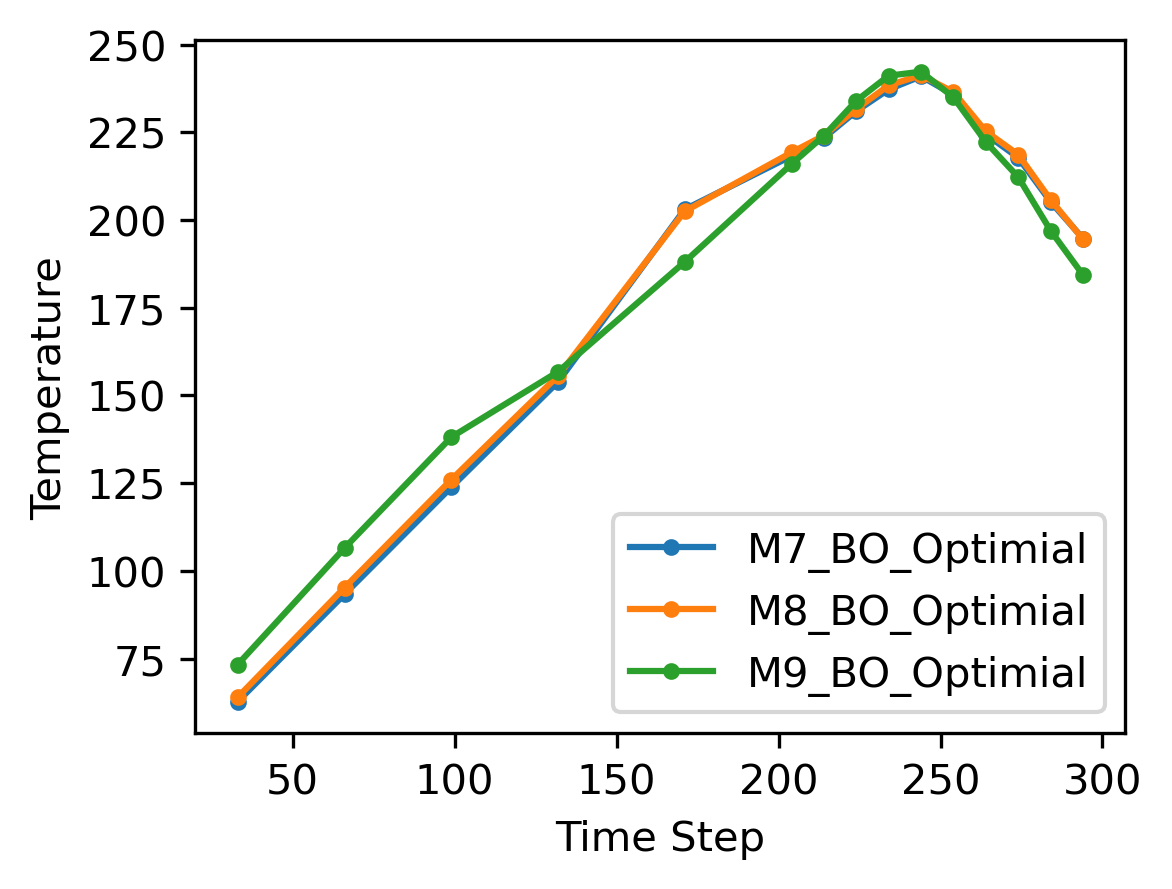
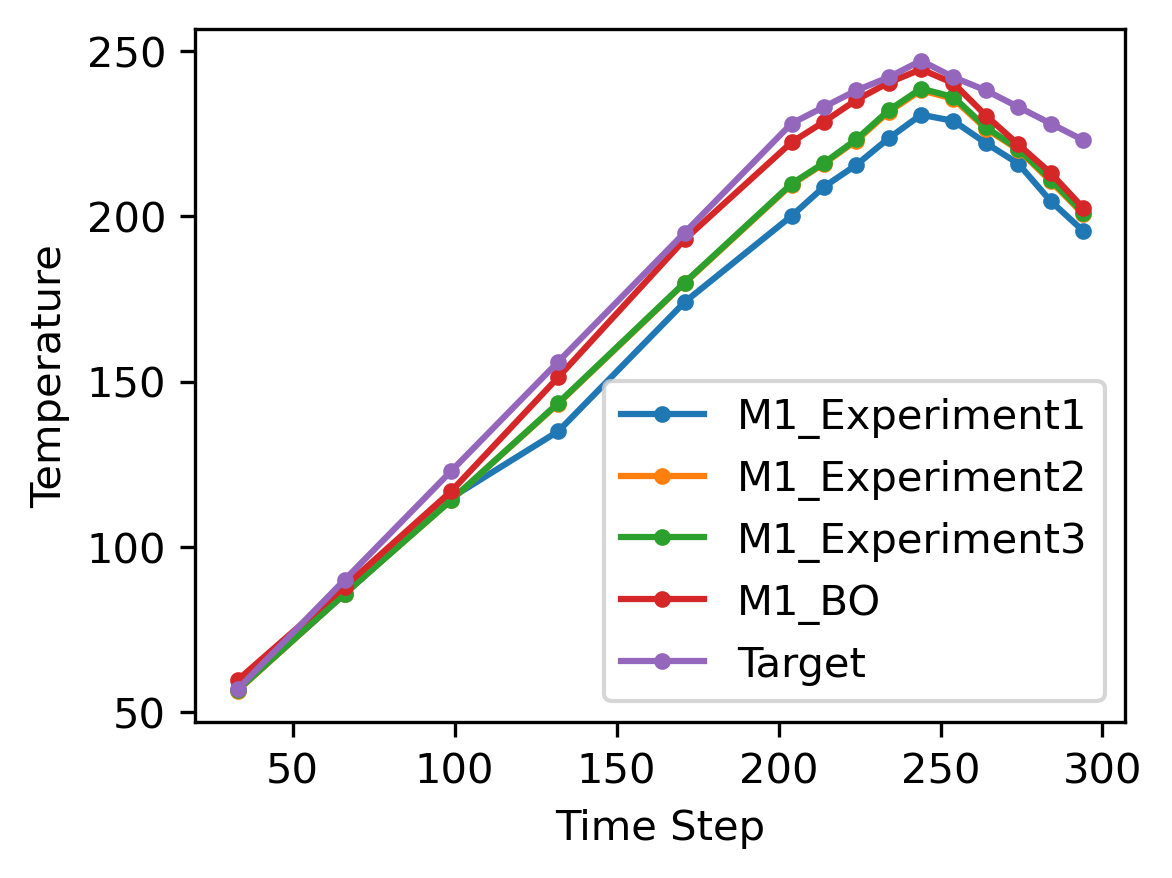
started chaging model to directly predict recieps

diff --git a/main.py b/main.py
@@ -23,6 +23,7 @@ from bayes_opt import BayesianOptimization
 from bayes_opt import UtilityFunction
 from bayes_opt.logger import JSONLogger
 from bayes_opt.event import Events
+import pandas  as pd
 
 parser = argparse.ArgumentParser()
 parser.add_argument('--lr', default=1e-2, type=float, help='learning rate')
@@ -100,21 +101,6 @@ class OvenLightningModule(pl.LightningModule):
         print('Model Created!')
 
 
-    def create_video(self, x, y_hat, y):
-
-        b, t, c, h, w = x.shape
-        x_t = x.cpu()
-        x_t = x_t[1, 1, :, :, :]
-        x_grid = torchvision.utils.make_grid(x_t, nrow=t)
-
-        b, t, c, h, w = y.shape
-        y_t = y[1, :, :, :, :]
-        y_hat_t = y_hat[1, :, :, :, :]
-        y_grid = torchvision.utils.make_grid(y_t.cpu(), nrow=t)
-        y_hat_grid = torchvision.utils.make_grid(y_hat_t.cpu(), nrow=t)
-
-        return x_grid, y_grid, y_hat_grid
-
     def forward(self, x, model):
 
         output, f1, f2, f3, f4 = model(x, future_step=self.time_steps)
@@ -182,64 +168,10 @@ class OvenLightningModule(pl.LightningModule):
         self.log("avg_diff_tar_tar", avg_diff_tar_tar.item(), on_step=False, on_epoch=True)
 
 
-        # loss = src_loss + tar_loss + mmd_loss1 + mmd_loss2 + mmd_loss3 + mmd_loss4 + reg_loss
-        loss = src_loss
-
-        if self.log_images:
-            x_grid, y_grid, y_hat_grid = self.create_video(src_x, src_y_hat, src_y)
-            fname = 'epoch_' + str(self.current_epoch+1) + '_step' + str(self.global_step)
-
-            figure, ax = plt.subplots(1, 1, figsize=(18, 3))
-            ax.imshow(y_hat_grid.permute(1,2,0))
-            figure.suptitle("pred_"+fname, fontsize=16)
-            self.logger.experiment.log_image("pred", figure)
-            plt.clf()
-            plt.cla()
-
-            figure, ax = plt.subplots(1, 1, figsize=(18, 3))
-            ax.imshow(y_grid.permute(1,2,0))
-            figure.suptitle("target_"+fname, fontsize=16)
-            self.logger.experiment.log_image("target", figure)
-            plt.clf()
-            plt.cla()
-
-            figure, ax = plt.subplots(1, 1, figsize=(18, 3))
-            ax.imshow(x_grid.permute(1,2,0))
-            figure.suptitle("input_"+fname, fontsize=16)
-            self.logger.experiment.log_image("input", figure)
-            plt.clf()
-            plt.cla()
-
+        loss = src_loss + tar_loss + mmd_loss1 + mmd_loss2 + mmd_loss3 + mmd_loss4 + reg_loss
+        # loss = src_loss
 
         return loss
-
-    # def validation_step(self, batch, batch_idx, dataloader_idx):
-
-        # src_batch = batch[0]
-        # tar_batch = batch[1]
-        # src_x, src_y = src_batch
-        # tar_x, tar_y = tar_batch
-
-        # src_y_hat, src_dcl_y_hat = self.forward(src_x)
-        # tar_y_hat, tar_dcl_y_hat = self.forward(tar_x)
-
-        # src_label = torch.zeros(src_x.shape[0]).cuda()
-        # tar_label = torch.ones(tar_x.shape[0]).cuda()
-
-        # src_loss = self.criterion(src_y_hat, src_y)
-        # tar_loss = self.criterion(tar_y_hat, tar_y)
-        # src_dcl_loss =self.dcl_criterion(src_dcl_y_hat, src_label)
-        # tar_dcl_loss =self.dcl_criterion(tar_dcl_y_hat, tar_label) 
-        # self.log("val_src_loss", src_loss.item(), on_step=False, on_epoch=True)
-        # self.log("val_tar_loss", tar_loss.item(), on_step=False, on_epoch=True)
-        # self.log("val_src_dcl_loss", src_dcl_loss.item(), on_step=False, on_epoch=True)
-        # self.log("val_tar_dcl_loss", tar_dcl_loss.item(), on_step=False, on_epoch=True)
-
-        # self.log("val_avg_diff_src_tar", avg_diff_src_tar.item(), on_step=False, on_epoch=True)
-        # self.log("val_avg_diff_src_src", avg_diff_src_src.item(), on_step=False, on_epoch=True)
-
-        # self.log("val_avg_diff_tar_tar", avg_diff_tar_tar.item(), on_step=False, on_epoch=True)
-        # self.log("val_avg_diff_tar_src", avg_diff_tar_src.item(), on_step=Falalexnet_resnet_finetune
 
 def test_trainer():
     model =OvenLightningModule(opt).cuda()
@@ -386,132 +318,102 @@ def bayesian_ops():
     # model.load_state_dict(torch.load(opt.model_path, map_location='cuda:0'), strict=False)
     model.eval()
 
-    inp_target = torch.load("dataset/target_input.pt", map_location="cuda:0")
-    inp_target = inp_target[0, :]
-    inp_target.unsqueeze_(0)
-    inp_target = inp_target.type(torch.cuda.FloatTensor)
     src_mean = torch.load("dataset/source_mean.pt", map_location="cuda:0")
     src_sd = torch.load("dataset/source_sd.pt", map_location="cuda:0")
     plt.figure(figsize=(4, 3))
-    for geom_num in range(7, 10):
+    geom_num = 1
 
-        def GetSlope(val1, val2, t1, t2):
-            slope = (val2 - val1) / (t2 - t1)
-            return slope
+    def GetSlope(val1, val2, t1, t2):
+        slope = (val2 - val1) / (t2 - t1)
+        return slope
 
-        def black_box_function(r1, r2, r3, r4, r5, r6, r7):
+    def black_box_function(r1, r2, r3, r4, r5, r6, r7):
 
-            steps = [33, 66, 99, 132, 171, 204, 214, 224,
-                        234, 244, 254, 264, 274, 284, 294]
-            recipes = [r1, r2, r3, r4, r5, r6, r7]
-            inp = create_input(geom_num, recipes)
-            inp = inp.cuda()
-            inp_normalized = (inp - src_mean + 1e-5)/(src_sd+1e-5)
-            inp_normalized = inp_normalized.type(torch.cuda.FloatTensor)
-
-            with torch.no_grad():
-                pred, _, _, _, _ = model(inp_normalized, model.model1)
-
-            # error = -(pred[:,:,:, :12, :12].mean((-1,-2)) - target[:,:,:,:12, :12].mean((-1,-2))).pow(2).sum()
-            temp_dict = {steps[i]:pred[:, i, :, :12, :17].mean() for i in range(len(steps))}
-            tp = 244
-            ts_min = 234
-            ts_max = 254
-            tl_min = 204
-            tl_max = 294
-            tpre_min = 66
-            tpre_max =171
-
-            # Tpre_min = temp_dict[tpre_min]
-            # Tpre_max = temp_dict[tpre_max] # This could 204
-
-            Ts_min = temp_dict[ts_min]
-            Ts_max = temp_dict[ts_max]
-            Tp = temp_dict[tp]
-            Tl = 217
-            Tp_cl = 260
-            Tp_target = 240
-            flag = False
-            loss = 0
-
-            Ts_min_loss = max((Tp - Ts_min - 5, 0))
-            Ts_max_loss = max((Tp - Ts_max - 5, 0))
-            Tp_loss1 = max((Tp - Tp_cl, 0))
-            Tp_loss2 = torch.norm(Tp - Tp_target)
-            # Tpre_min_loss = torch.norm(Tpre_min - 150)
-            # Tpre_max_loss = torch.norm(200 - Tpre_min)
-
-            loss += Ts_min_loss
-            loss += Ts_max_loss
-            loss += Tp_loss1
-            loss += Tp_loss2
-            # loss += Tpre_min_loss
-            # loss += Tpre_max_loss
-
-            for i in range(len(steps)):
-                if temp_dict[steps[i]] > Tl and temp_dict[steps[i]] < Tp and steps[i] < tp  and steps[i] >= tl_min:
-
-                    slope_pos = GetSlope(temp_dict[steps[i]], temp_dict[steps[i+1]], steps[i], steps[i+1])
-                    slope_pos_loss = max((slope_pos-3, 0))
-                    loss += slope_pos_loss
-
-                elif temp_dict[steps[i]] > Tl and temp_dict[steps[i]] < Tp and steps[i] > tp and steps[i] <= tl_max:
-
-                    slope_neg = GetSlope(temp_dict[steps[i]], temp_dict[steps[i+1]], steps[i], steps[i+1])
-                    slope_neg_loss = max((-slope_neg-6, 0))
-                    loss += slope_neg_loss
-
-            loss = np.array(loss.cpu())
-
-            return -loss
-
-        # pbounds = {"r1": (100, 120), "r2": (120, 170), "r3": (170, 190),
-        #            "r4":(190, 210), "r5":(240, 400), "r6": (270, 400), "r7": (290, 400)}
-
-        pbounds = {"r1": (96, 150), "r2": (150, 175), "r3": (175, 200),
-                   "r4":(200, 217), "r5":(217, 260), "r6": (217, 260), "r7": (96, 217)}
-
-        optimizer = BayesianOptimization(f=black_box_function,
-                                         pbounds=pbounds,
-                                         random_state=1)
-    # logger = JSONLogger(path="./bo_logs.json")
-    # optimizer.subscribe(Events.OPTIMIZATION_STEP, logger)
-
-        optimizer.maximize(
-            acq="ei",
-            xi=0.1,
-            init_points=10,
-            n_iter=100
-        )
-        print(optimizer.max)
-        r1, r2, r3, r4, r5, r6, r7 = optimizer.max["params"]["r1"], \
-                                     optimizer.max["params"]["r2"], \
-                                     optimizer.max["params"]["r3"], \
-                                     optimizer.max["params"]["r4"], \
-                                     optimizer.max["params"]["r5"], \
-                                     optimizer.max["params"]["r6"], \
-                                     optimizer.max["params"]["r7"],
-
+        steps = [33, 66, 99, 132, 171, 204, 214, 224,
+                    234, 244, 254, 264, 274, 284, 294]
         recipes = [r1, r2, r3, r4, r5, r6, r7]
-
         inp = create_input(geom_num, recipes)
         inp = inp.cuda()
         inp_normalized = (inp - src_mean + 1e-5)/(src_sd+1e-5)
         inp_normalized = inp_normalized.type(torch.cuda.FloatTensor)
-        target_input = torch.load("dataset/tar_x_train.pt")
-        target_input = target_input.cuda()
-        target_input = target_input.type(torch.cuda.FloatTensor)
-        # target_target = torch.load("dataset/tar_y_train/pt")
+        loss = 0
+
+        target_temp = torch.cuda.FloatTensor( [57, 90, 123, 156, 195, 228, 233, 238, 242, 247, 242, 238, 233, 228, 223]).unsqueeze(1)
+
+        with torch.no_grad():
+            pred, _, _, _, _ = model(inp_normalized, model.model1)
+
+        pred_temp = pred[:,:,:, :12, :17].mean((-1,-2)).squeeze(0)
+        loss += (target_temp - pred_temp).pow(2).sum() / target_temp.size(0)
+        # peak_err = max((max(pred_temp) - max(recipes), 0.0))
+        # loss += float(peak_err)
+
+
+        loss = np.array(loss.cpu())
+
+
+        return -loss
+
+    # pbounds = {"r1": (100, 120), "r2": (120, 170), "r3": (170, 190),
+    #            "r4":(190, 210), "r5":(240, 400), "r6": (270, 400), "r7": (290, 400)}
+
+
+    pbounds = {"r1": (100, 280), "r2": (100, 280), "r3": (100, 280),
+               "r4":(100, 280), "r5":(100, 280), "r6": (100, 280), "r7": (100, 280)}
+
+#recipes = [120, 150, 180, 210, 240, 280, 300]
+
+    optimizer = BayesianOptimization(f=black_box_function,
+                                     pbounds=pbounds,
+                                     random_state=1)
+# logger = JSONLogger(path="./bo_logs.json")
+# optimizer.subscribe(Events.OPTIMIZATION_STEP, logger)
+
+    optimizer.maximize(
+        acq="ei",
+        xi=0.1,
+        init_points=100,
+        n_iter=100
+    )
+    print(optimizer.max)
+    r1, r2, r3, r4, r5, r6, r7 = optimizer.max["params"]["r1"], \
+                                 optimizer.max["params"]["r2"], \
+                                 optimizer.max["params"]["r3"], \
+                                 optimizer.max["params"]["r4"], \
+                                 optimizer.max["params"]["r5"], \
+                                 optimizer.max["params"]["r6"], \
+                                 optimizer.max["params"]["r7"],
+
+    recipes = [r1, r2, r3, r4, r5, r6, r7]
+
+    recipe_list = { "Experiment1":[105, 130, 160, 190, 230, 270, 290],
+               "Experiment2":[110, 140, 170, 200, 240, 280, 290],
+                "Experiment3":[120, 150, 180, 220, 260, 280, 300]}
+
+    recipe_list["BO"] = recipes
+    df = pd.DataFrame()
+    for k, v in recipe_list.items():
+        print(f"", black_box_function(v[0], v[1], v[2], v[3], v[4], v[5], v[6]))
+
+        inp = create_input(geom_num, v)
+        inp = inp.cuda()
+        inp_normalized = (inp - src_mean + 1e-5)/(src_sd+1e-5)
+        inp_normalized = inp_normalized.type(torch.cuda.FloatTensor)
         steps = [33, 66, 99, 132, 171, 204, 214, 224,
                     234, 244, 254, 264, 274, 284, 294]
 
         with torch.no_grad():
             pred, _, _, _, _ = model(inp_normalized, model.model1)
-            pred_original, _, _, _, _ = model(target_input, model.model1)
 
-        plt.plot(steps, pred[0, :, :, :5, :5].mean((-1, -2)).cpu(), ".-", label=f"M{geom_num}_BO_Optimial")
-        # plt.plot(steps, pred_original[0, :, :, :5, :5].mean((-1, -2)).cpu(), ".-", label="M7_ModelOutput")
+        y = pred[0, :, :, :5, :5].mean((-1, -2)).cpu()
+        df[k] = pd.Series(y.squeeze(1))
+        plt.plot(steps, y, ".-", label=f"M{geom_num}_{k}")
 
+    target_temp = torch.cuda.FloatTensor( [57, 90, 123, 156, 195, 228, 233, 238, 242, 247, 242, 238, 233, 228, 223]).unsqueeze(1).cpu()
+
+    plt.plot(steps, target_temp, ".-", label="Target")
+
+    df.to_csv("temp/bo_profile.csv")
     plt.ylabel("Temperature")
     plt.xlabel("Time Step")
     plt.legend()

diff --git a/playground.py b/playground.py
@@ -8,6 +8,18 @@ import matplotlib.pyplot as plt
 from collections import defaultdict
 import seaborn as sns
 #%%
+df = pd.read_csv("temp/BO_test_result.csv")
+plt.figure(figsize=(4, 3))
+plt.plot(df.Step, df.SATA4, ".-", label=f"Measurement")
+plt.plot(df.Step, df.BO, ".-", label=f"BO")
+plt.ylabel("Temperature")
+plt.xlabel("Time Step")
+plt.legend()
+plt.savefig(f"Figure/BO_comparison.png", dpi=300, bbox_inches='tight')
+plt.close("all")
+
+# plt.fidf.SATA4
+#%%
 df = pd.read_json("bo_logs.json", lines=True)
 df.params.iloc[df.target.argmin()]
 
